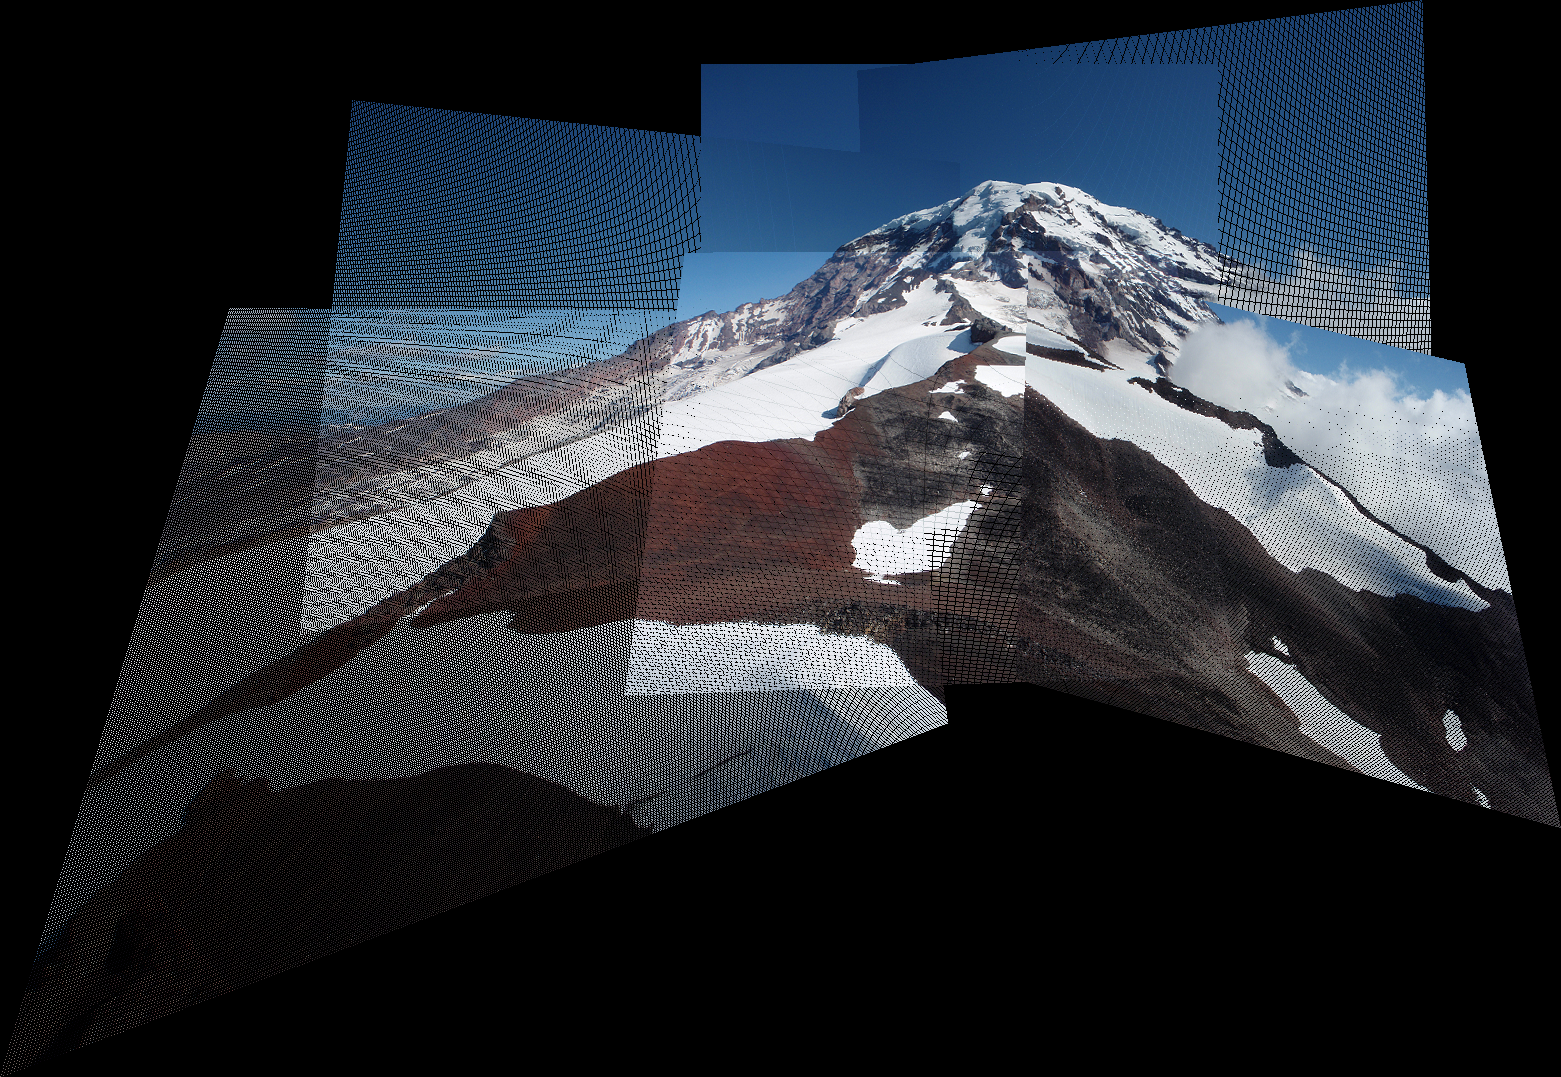
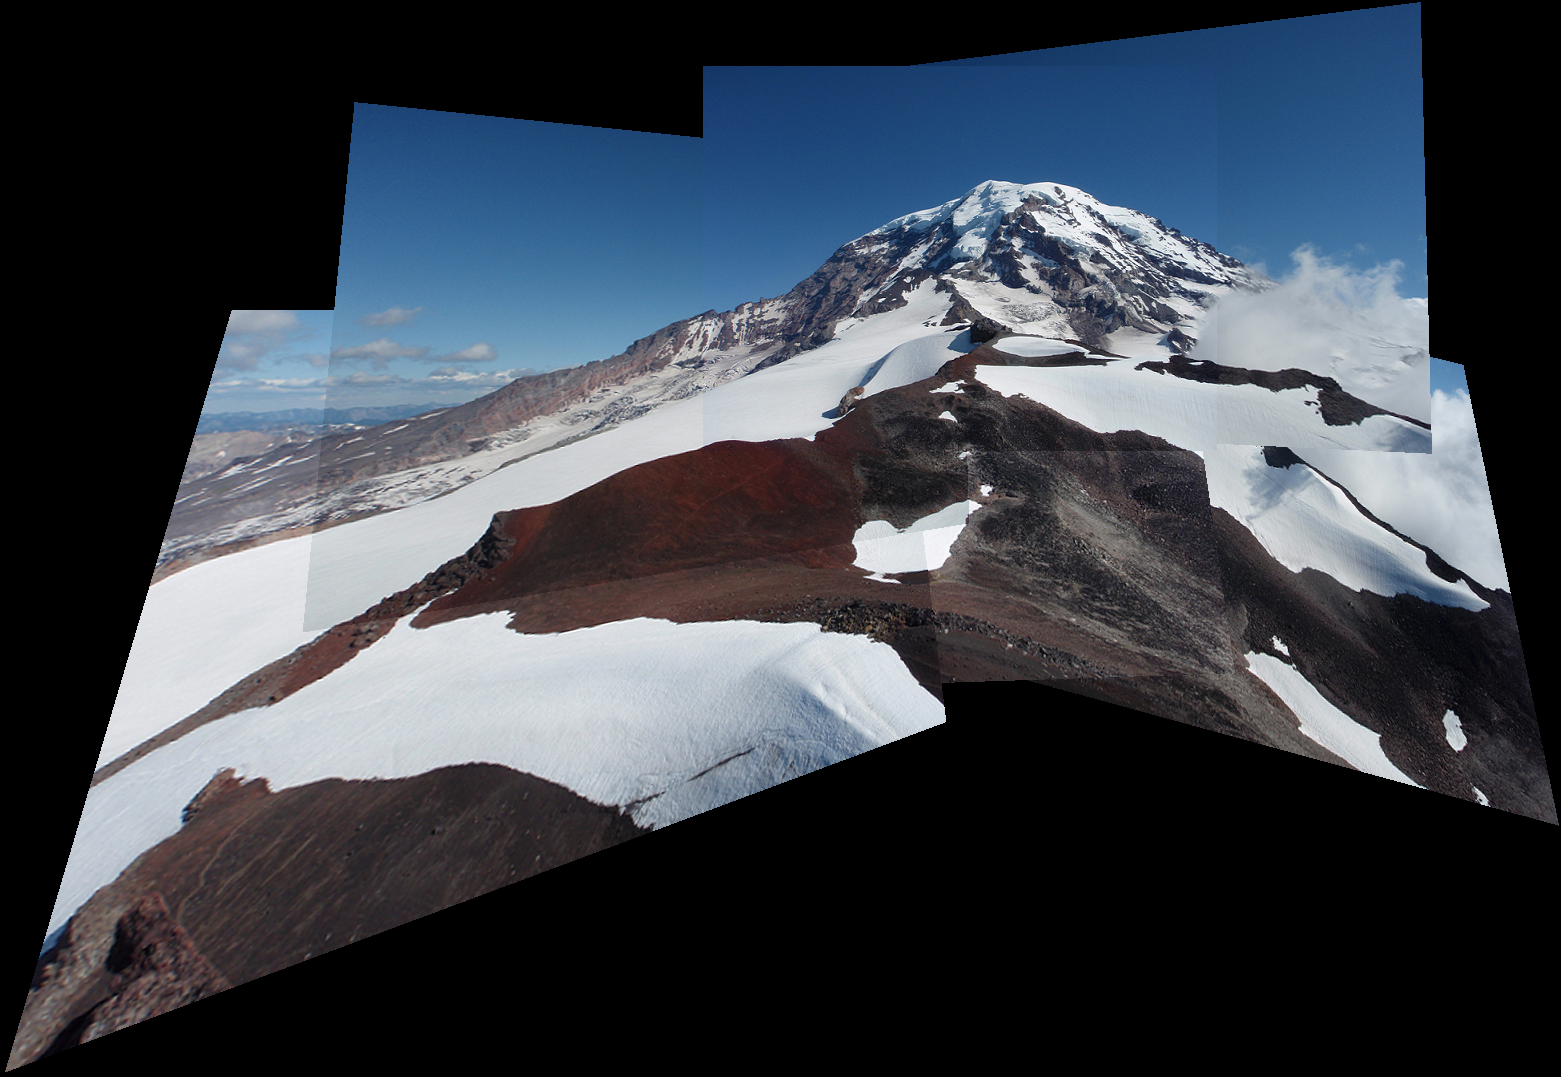
gg

Changed region(s): [[0.0, 0.0, 1.0, 1.0], [0.8302, 0.429, 0.861, 0.4596]]

diff --git a/code/ImageStitcher.m b/code/ImageStitcher.m
@@ -47,36 +47,31 @@ classdef ImageStitcher < handle
                 obj.mapPos{i} = map_pos;
                 min_x_y = min([min_x_y; map_pos]);
                 max_x_y = max([max_x_y; map_pos]);
-            end
-            if min_x_y(1) <= 0
-                offset_x = -1 * min_x_y(1) + 1;
-            else
-                offset_x = 0;
-            end
-            if min_x_y(2) <= 0
-                offset_y = -1 * min_x_y(2) + 1;
-            else
-                offset_y = 0;
-            end
+            end       
+            i = 1;
+            img = obj.IMG{i};
+            t = maketform('projective', obj.T{i}');
+            result = imtransform(im2single(img), t, 'bicubic', ...
+            'XData', [min_x_y(1) max_x_y(1)], 'YData', [min_x_y(2) max_x_y(2)], 'FillValues', NaN, 'XYScale', 1);
             
-            new_width = max_x_y(1) + offset_x;
-            new_height = max_x_y(2) + offset_y;
-            
-            result = zeros([new_height new_width 3]);
-            for i = 1:obj.ncamera
-                map_pos = obj.mapPos{i};
-                map_pos(:, 1) = map_pos(:, 1) + offset_x;
-                map_pos(:, 2) = map_pos(:, 2) + offset_y;
+            for i = 2:obj.ncamera
+                img = obj.IMG{i};
+                t = maketform('projective', obj.T{i}');
+                img = imtransform(im2single(img), t, 'bicubic', ...
+                'XData', [min_x_y(1) max_x_y(1)], 'YData', [min_x_y(2) max_x_y(2)], 'FillValues', NaN, 'XYScale', 1);
+                result_mask = ~isnan(result(:, :, 1));
+                temp_mask = ~isnan(img(:, :, 1));
+                plot_mask = temp_mask & (~result_mask);
                 
-                image = obj.IMG{i};
-                for j = 1:(obj.width * obj.height)
-                    result(map_pos(j, 2), map_pos(j, 1), :) = image(posMat(j, 2), posMat(j, 1), :);
+                for ch = 1:3
+                    result_ch = result(:, :, ch);
+                    temp_ch = img(:, :, ch);
+                    result_ch(plot_mask) = temp_ch(plot_mask);
+                    result(:, :, ch) = result_ch;
                 end
             end
-            
-            result = uint8(result);
+            result(isnan(result)) = 0;
         end
     end
-    
 end
 

diff --git a/code/findHomography.m b/code/findHomography.m
@@ -34,10 +34,10 @@ function [H] = solveHomography(pt1, pt2)
 %
     pt1_homo = toHomogeneous(pt1);
     pt2_homo = toHomogeneous(pt2);
-    H_t = (pt1_homo) \ (pt2_homo);
-    H = H_t';
+    %H_t = (pt1_homo) \ (pt2_homo);
+    %H = H_t';
     %H(3, :) = [0 0 1];
-    %{
+    
     pt2_homo(:, 3) = 0;
     b = reshape(pt2_homo', [1, 12])';
     A = zeros([12, 8]);
@@ -48,5 +48,5 @@ function [H] = solveHomography(pt1, pt2)
     end
     x = A\b;
     H = reshape([x', 1], [3, 3])';
-    %}
+    
 end

diff --git a/code/Wrap3.m b/code/Wrap3.m
@@ -51,7 +51,7 @@ end
 % end
 % 
 % T = bundle.getTransform(bundle.x0); 
-%save('T.mat', 'T');
+% %save('T.mat', 'T');
 
 tmp = load('T.mat');
 T = tmp.T;
@@ -63,7 +63,7 @@ end
 
 img = stitch.Stitch();
 
-imshow(img)
+%imshow(img)
 
 imwrite(img, 'result.png')
 
